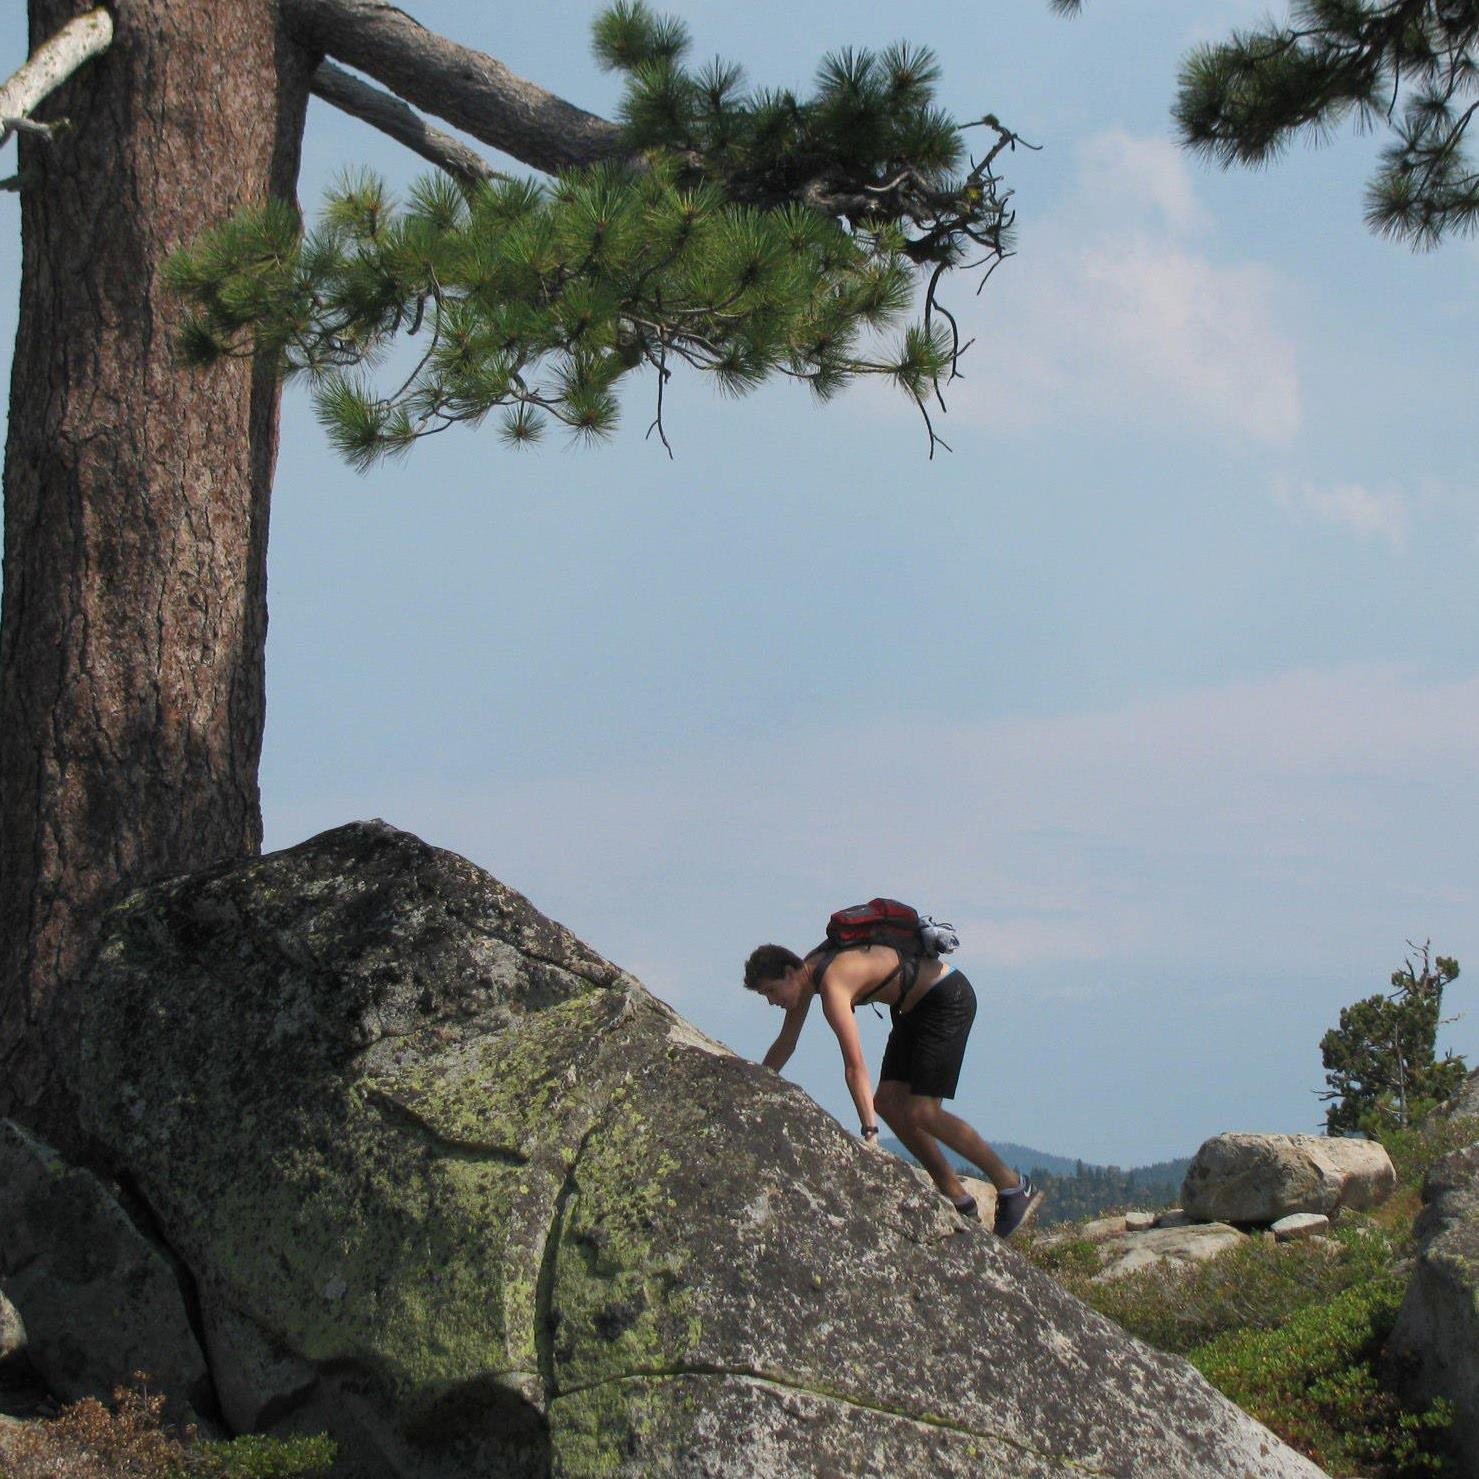
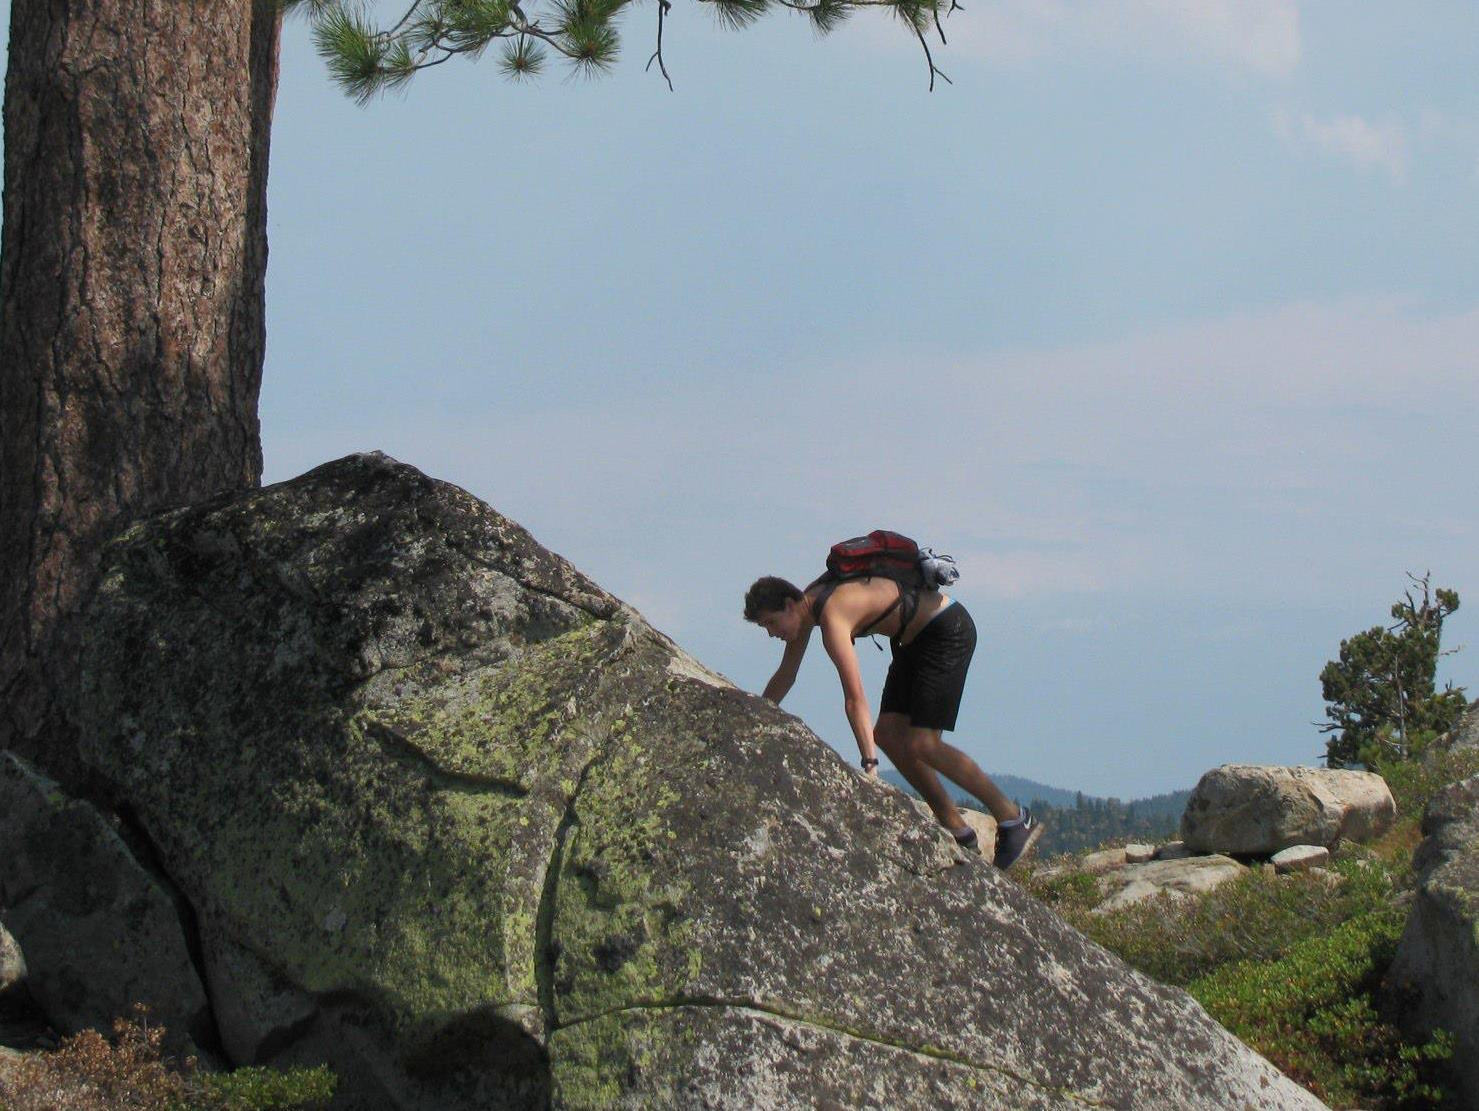
changed border and cropped tahoe

diff --git a/life.html b/life.html
@@ -1,25 +1,25 @@
 <!-- Text -->
 <div class="container-fluid bg-white">
 	<div class="row">
-		<div class="col-sm-5">
+		<div class="col-sm-6">
 			<h3> Outdoors </h3>
 			<p> When I can have time away from work, I enjoy numerous outdoor activities including running, hiking, and skateboarding. I ran varsity for two years at <a href="http://haverfordathletics.com/sports/mxc/index">Haverford College</a> and although I am no longer on a team, I still run in long distance races every few months. I keep my training log updated daily at <a href="http://rogger.co/hdrake">rogger.co</a>.
 			</p>
 		</div>
-		<div class = "col-sm-7">
+		<div class = "col-sm-6">
 			<figure>
-				<img src="pics/climb.jpg" class="img-responsive center-block img-border" alt="Climbing a boulder near Donner Lake, CA" style="width:80%;">
+				<img src="pics/climb.jpg" class="img-responsive center-block img-border" alt="Hiking near Donner Lake, CA" style="width:80%;">
 				<figcaption class="center-block" style="padding-right:10%;padding-left:10%">Hiking at Donner Pass, CA.</figcaption>
 			</figure>
 		</div>
 	</div>
 	<div class="row">
-		<div class="col-sm-5">
+		<div class="col-sm-6">
 			<h3> Art </h3>
 			<p> I am an avid fan of poet <a href="https://en.wikipedia.org/wiki/Gary_Snyder">Gary Snyder</a>, print-maker <a href="http://tomkillion.com/prints-1/">Tom Killion</a>, and film director <a href="http://www.imdb.com/name/nm0594503/">Hayao Miyazaki</a>. These three japanese (or "faux-japanese") artists represent oceans, winds, and mountains with a level of accuracy that scientists can only dream of.
 			</p>
 		</div>
-		<div class="col-sm-7">
+		<div class="col-sm-6">
 			<figure>
 				<img src="pics/killion.jpg" class="img-responsive center-block" alt="Climbing a boulder near Donner Lake, CA" style="width:80%">
 				<figcaption class="center-block" style="padding-right:10%;padding-left:10%">Along the Matt Davis trail, just north of my hometown of San Franscisco, CA. (print by <a href="http://tomkillion.com/prints-1/">Tom Killion</a>)</figcaption>

diff --git a/css/my_css.css b/css/my_css.css
@@ -49,5 +49,5 @@ filter:contrast(85%)
 }
 
 .img-border { 
-   border:1px solid #333333;
+   border:3px solid #333333;
 }
